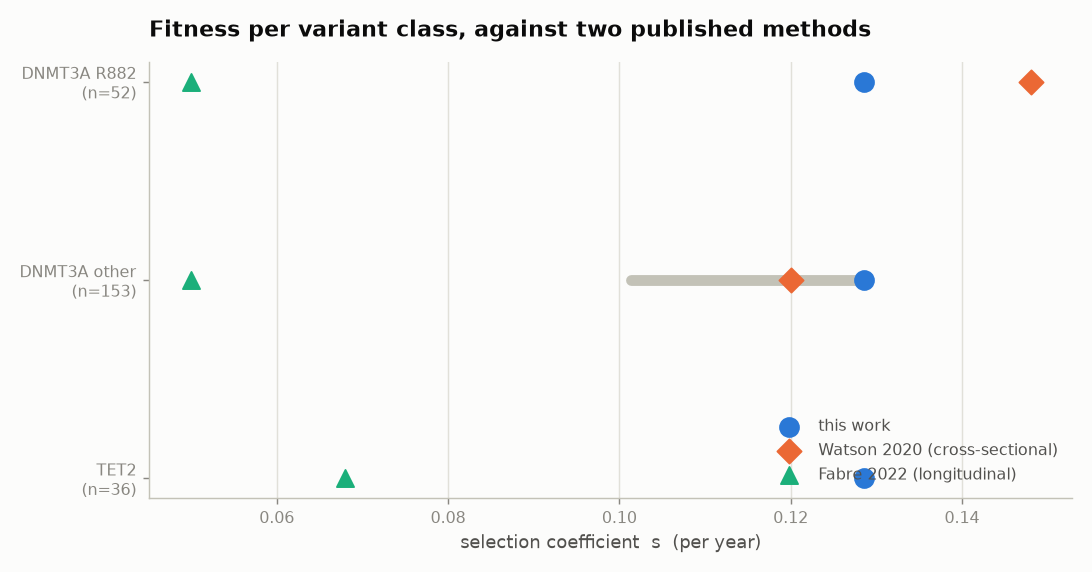
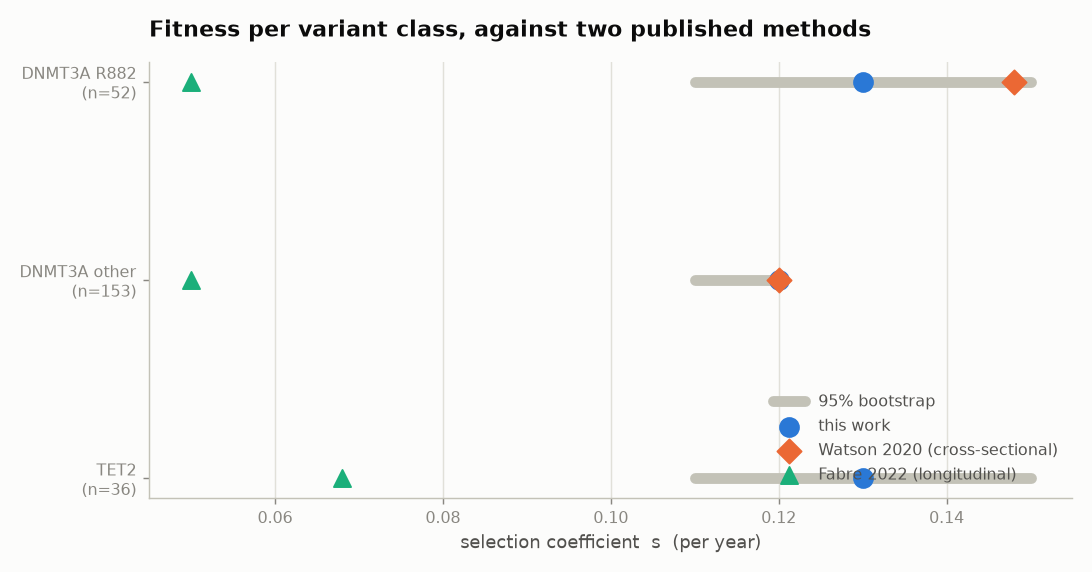
Stage D complete: per-variant fitness with bootstrap confidence
A refined sweep over s from 0.08 to 0.26 in steps of 0.01, ten thousand
people per point, 228 jobs on the cluster. Point estimates order as
expected: DNMT3A R882 and TET2 at 0.130, other DNMT3A variants at 0.120.

Bootstrapping the observed variants within each class shows the ordering is
mostly not resolvable at these sample sizes. Only TET2 against non-hotspot
DNMT3A separates, at P = 0.97. The R882 advantage, which the literature
reports and which stage 1 saw in median clone size, is smaller than 52
variants can distinguish.

Reporting the point estimates without this would have overstated the result.
What it names is the fix: more variants per class, not more simulation.

diff --git a/analysis/05_per_variant.py b/analysis/05_per_variant.py
@@ -132,28 +132,57 @@ sim = np.log(sw[QCOLS].values)
 scale = sim.std(axis=0)
 scale[scale == 0] = 1.0
 
-results = {}
-for k in classes:
-    target = np.log(np.quantile(obs[obs.klass == k].VAF.values, QUANTILES))
+def best_s_for(values):
+    """The grid point whose VAF quantiles land closest to these observations."""
+    target = np.log(np.quantile(values, QUANTILES))
     d = np.sqrt((((sim - target) / scale) ** 2).mean(axis=1))
     grid = (sw.assign(distance=d)
               .groupby(["s", "mu"], as_index=False)
               .agg(distance=("distance", "mean")))
-    cut = np.quantile(grid.distance, ACCEPT)
-    acc = grid[grid.distance <= cut]
-    best = grid.loc[grid.distance.idxmin()]
-    results[k] = {"best_s": best.s, "distance": best.distance,
-                  "s_lo": acc.s.min(), "s_hi": acc.s.max(),
-                  "n": int((obs.klass == k).sum())}
+    row = grid.loc[grid.distance.idxmin()]
+    return row.s, row.distance, grid
+
+
+BOOTSTRAP = 400
+rng = np.random.default_rng(0)
+
+results = {}
+for k in classes:
+    vals = obs[obs.klass == k].VAF.values
+    best, dist, grid = best_s_for(vals)
+
+    # How much of the class difference survives the sample size? Each class
+    # holds between 36 and 153 variants. Resampling them with replacement and
+    # re-fitting shows how much the estimate moves for that reason alone —
+    # which is the difference between "we got two numbers" and "these two
+    # numbers differ".
+    boot = np.array([best_s_for(rng.choice(vals, size=vals.size, replace=True))[0]
+                     for _ in range(BOOTSTRAP)])
+
+    results[k] = {"best_s": best, "distance": dist,
+                  "s_lo": np.quantile(boot, 0.025),
+                  "s_hi": np.quantile(boot, 0.975),
+                  "boot": boot,
+                  "n": int(vals.size)}
 
 
 # ================================================================== results
 section("3. INFERRED FITNESS, CLASS BY CLASS")
-print(f"{'class':<14} {'n':>5}  {'s inferred':>11}  {'accepted range':>16}  {'distance':>9}")
+print(f"{'class':<14} {'n':>5}  {'s inferred':>11}  {'95% bootstrap':>17}  {'distance':>9}")
 for k in classes:
     r = results[k]
-    rng = f"{r['s_lo']:.3f} - {r['s_hi']:.3f}"
-    print(f"{k:<14} {r['n']:>5}  {r['best_s']:>11.3f}  {rng:>16}  {r['distance']:>9.4f}")
+    ci = f"{r['s_lo']:.3f} - {r['s_hi']:.3f}"
+    print(f"{k:<14} {r['n']:>5}  {r['best_s']:>11.3f}  {ci:>17}  {r['distance']:>9.4f}")
+
+print("\npairwise: does the difference survive resampling?")
+for i, a in enumerate(classes):
+    for b in classes[i+1:]:
+        diff = results[a]["boot"] - results[b]["boot"]
+        frac = float((diff > 0).mean())
+        gap = results[a]["best_s"] - results[b]["best_s"]
+        call = "separated" if frac > 0.95 or frac < 0.05 else "NOT separated"
+        print(f"  {a:<13} vs {b:<13}  gap {gap:+.3f}   "
+              f"P(first > second) = {frac:.2f}   {call}")
 
 print(f"\n{'class':<14}  {'ours':>8}  {'Watson 2020':>12}  {'Fabre 2022':>11}   verdict")
 for k in classes:
@@ -197,7 +226,8 @@ y = np.arange(len(classes))[::-1]
 for i, k in zip(y, classes):
     r = results[k]
     ax.plot([r["s_lo"], r["s_hi"]], [i, i], color=BASE, linewidth=6,
-            solid_capstyle="round", zorder=1)
+            solid_capstyle="round", zorder=1,
+            label="95% bootstrap" if i == y[0] else None)
     ax.scatter([r["best_s"]], [i], s=110, color=S1, zorder=3,
                label="this work" if i == y[0] else None)
     pub = PUBLISHED.get(k, {})

diff --git a/README.md b/README.md
@@ -29,7 +29,7 @@ The public data agrees: age explains only 9% of the variance in clone size
 | **A** — minimal model | Moran process with selection, validated analytically | **done** |
 | **B** — realistic model | multiple clones, continuous mutation influx | **done** |
 | **C** — parameter sweep | ABC inference on an HPC cluster | **done** |
-| D — confrontation | compare against observed VAF distributions | planned |
+| **D** — per variant | fitness per variant class, with bootstrap | **done** |
 
 ## Layout
 
@@ -74,10 +74,12 @@ vertical ridge running across all mutation rates. Shape responds to
 fitness; counts respond to mutation rate, and counts cannot be computed without
 a screening denominator the data does not carry.
 
-**Fitness is per variant, not global.** In the public data TET2 clones grow
-about twice as fast as DNMT3A ones, and within DNMT3A the R882 hotspot
-produces clones nearly twice the size at the same median age
-(p = 5.4 × 10⁻⁵).
+**Fitness is per variant, but this dataset resolves only part of it.** Fitting
+each variant class separately gives DNMT3A R882 at 0.130, TET2 at 0.130 and
+other DNMT3A variants at 0.120 per year. Bootstrapping the observed variants
+shows only one of the three pairwise differences survives the sample size:
+TET2 above non-hotspot DNMT3A. The R882 advantage, real in the literature, is
+smaller than what 52 variants can resolve.
 
 **The estimate was checked against the literature, and a parameter was wrong.**
 Reading Watson 2020, Mitchell 2022 and Fabre 2022 showed that two independent
